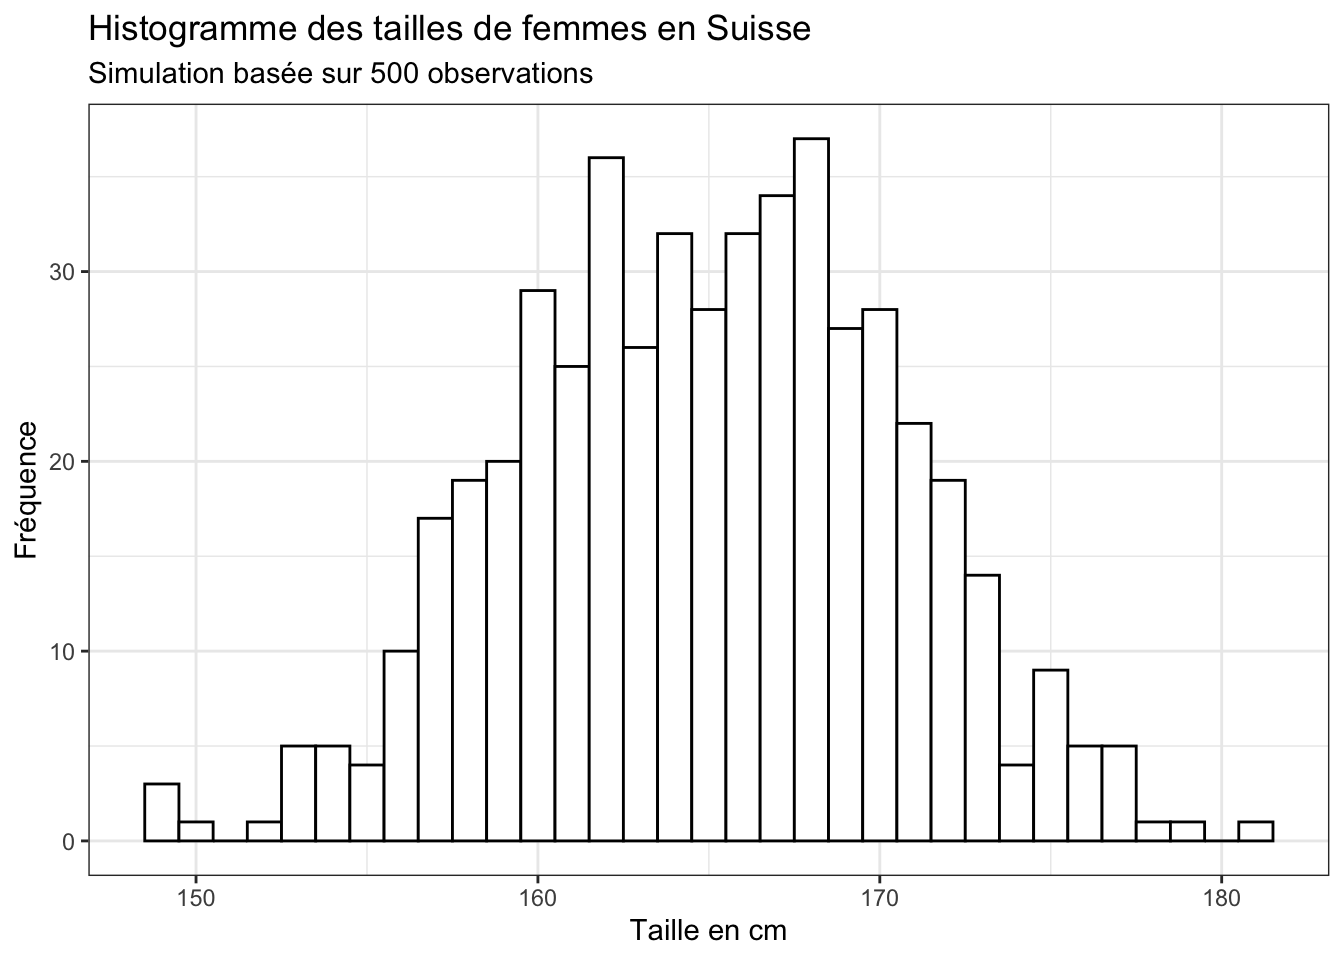
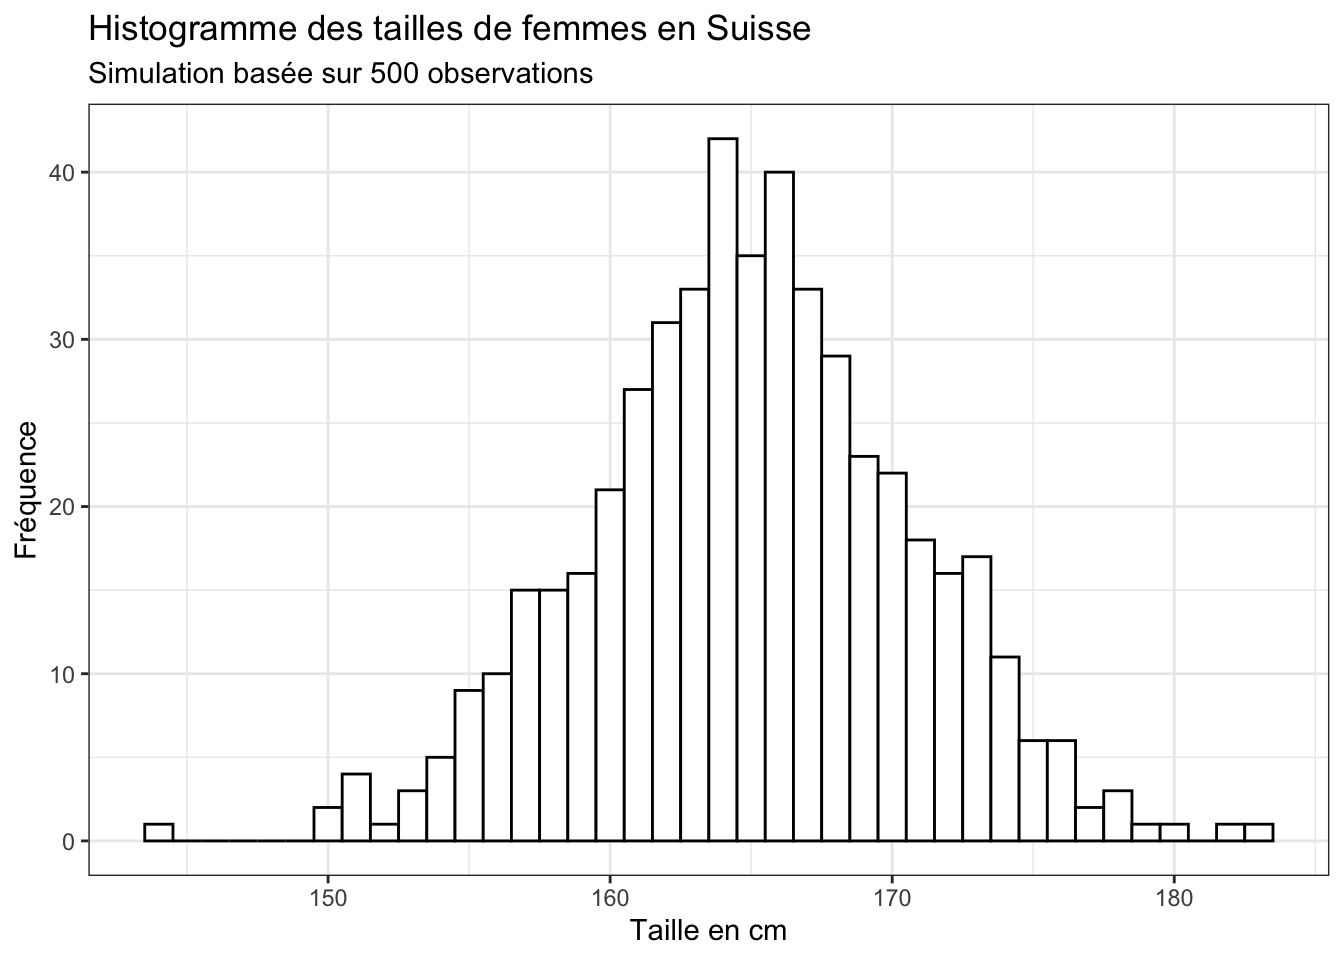
corrigé hist ps 3 v1

diff --git a/index.html b/index.html
@@ -1734,7 +1734,7 @@ Attention
 <span id="cb100-5"><a href="#cb100-5" aria-hidden="true" tabindex="-1"></a></span>
 <span id="cb100-6"><a href="#cb100-6" aria-hidden="true" tabindex="-1"></a><span class="fu">head</span>(taille_f)</span></code><button title="Copy to Clipboard" class="code-copy-button"><i class="bi"></i></button></pre></div>
 <div class="cell-output cell-output-stdout">
-<pre><code>[1] 166.8315 168.4045 168.9667 171.8520 169.6458 167.9886</code></pre>
+<pre><code>[1] 164.6193 164.7676 167.7734 162.1687 163.7841 164.0025</code></pre>
 </div>
 <div class="sourceCode cell-code" id="cb102"><pre class="sourceCode r code-with-copy"><code class="sourceCode r"><span id="cb102-1"><a href="#cb102-1" aria-hidden="true" tabindex="-1"></a><span class="co"># stocker taille_f comme objet de type 'data.frame'</span></span>
 <span id="cb102-2"><a href="#cb102-2" aria-hidden="true" tabindex="-1"></a>taille_f <span class="ot">&lt;-</span> <span class="fu">as.data.frame</span>(taille_f)</span>
@@ -3303,8 +3303,8 @@ Solution
 <p>Voici l’histogramme des points obtenus par n = 79 étudiant.es qui ont participé au Problem Set 3.</p>
 <ul>
 <li><p>Le nombre maximal de points était de 20, il fallait 10 pour passer le test.</p></li>
-<li><p>La moyenne des points obtenus était de 11.5 (note = 4.25).</p></li>
-<li><p>59 étudiant.es (75%) ont réussi Problem Set 3.</p></li>
+<li><p>La moyenne des points obtenus était de 12.15 (note = 4.5).</p></li>
+<li><p>63 étudiant.es (79.7%) ont réussi Problem Set 3.</p></li>
 </ul>
 <div class="cell">
 <div class="cell-output-display">
